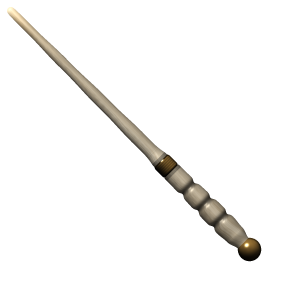
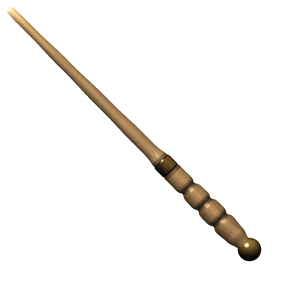
Keep the wall still around flickering flames, and make the wand light wood
- Each flickering flame now moves only a patch just wider than the flame,
  so the wall behind it no longer sways (most visible by the hero's owl)
- The wand cursor is light honey-toned wood instead of near-white

Changed region(s): [[0.03, 0.03, 0.57, 0.57], [0.54, 0.54, 0.84, 0.84]]

diff --git a/scripts/wand/render.js b/scripts/wand/render.js
@@ -79,12 +79,12 @@ window.renderWand = function ({ size = 100, scale = 3, tipX = 2.7, tipY = 2.7, a
       let alb, specS, shin, specCol
       const around = Math.atan2(sn, c) * r
       if (best.mat === 'wood') {
-        // Pale oiled ash, near bone white, so the wand stands out on the site's dark pages: creamy
-        // wood with fine, slightly darker grain lines running its length
+        // Light honey-toned wood, like oiled maple or blonde oak, so the wand stands out on the site's
+        // dark pages: warm golden wood with fine, darker grain lines running its length
         const tone = clamp(0.55 + 0.7 * fbm(u / 40, around / 3, 2, 11), 0, 1)
         const lines = fbm(u / 22, around / 0.28 + 3 * fbm(u / 30, around, 2, 7), 3, 13)
         const t = clamp(tone + lines * 0.8, 0, 1)
-        alb = [mix(186, 238, t), mix(164, 228, t), mix(128, 206, t)]
+        alb = [mix(172, 236, t), mix(122, 192, t), mix(70, 132, t)]
         // Slightly darker grooves (ambient occlusion)
         let occ = 0
         for (const gu of grooves) occ = Math.max(occ, Math.exp(-(((u - gu) / 1.3) ** 2)))
@@ -94,7 +94,7 @@ window.renderWand = function ({ size = 100, scale = 3, tipX = 2.7, tipY = 2.7, a
         // Tiny bump from the grain so highlights break up like a real oiled finish
         const bump = 0.18 * noise(u / 1.6, around / 0.5, 23)
         N = norm([N[0] + bump * e1[0], N[1] + bump * e1[1], N[2]])
-        specS = 0.55; shin = 45; specCol = [255, 246, 228]
+        specS = 0.6; shin = 50; specCol = [255, 240, 214]
       } else {
         // Brass: warm, reflective, faintly worn, with fine turned rings
         const wear = fbm(u / 2, around / 1.2, 3, 41)
@@ -118,7 +118,7 @@ window.renderWand = function ({ size = 100, scale = 3, tipX = 2.7, tipY = 2.7, a
         col = [0, 1, 2].map((k) => alb[k] * (0.06 + 0.5 * diff + fill) * (0.25 + 1.05 * env) * (1 - horizon) + specCol[k] * spec)
       } else {
         const sheen = Math.pow(Math.max(0, dot(N, Hk)), 8) * 0.12 // broad soft sheen under the sharp highlight
-        // Pale wood would blow out under full light, so it takes a little less, keeping its shaded side dark
+        // Light wood would blow out under full light, so it takes a little less, keeping its shaded side dark
         col = [0, 1, 2].map((k) => alb[k] * (0.22 + 0.7 * diff + fill) + specCol[k] * (spec * 0.6 + sheen))
       }
       const glowCol = [255, 196, 110]

diff --git a/components/LitImage.module.css b/components/LitImage.module.css
@@ -34,8 +34,8 @@
 .flame {
   position: absolute;
   background-repeat: no-repeat;
-  -webkit-mask-image: radial-gradient(ellipse 50% 50% at 50% 56%, #000 42%, transparent 100%);
-  mask-image: radial-gradient(ellipse 50% 50% at 50% 56%, #000 42%, transparent 100%);
+  -webkit-mask-image: radial-gradient(ellipse 50% 50% at 50% 56%, #000 62%, transparent 100%);
+  mask-image: radial-gradient(ellipse 50% 50% at 50% 56%, #000 62%, transparent 100%);
   animation: dance 1.2s ease-in-out infinite;
 }
 
@@ -55,19 +55,19 @@
     transform: scale(1, 1) skewX(0deg);
   }
   18% {
-    transform: scale(0.97, 1.07) skewX(-3deg);
+    transform: scale(0.98, 1.06) skewX(-2.5deg);
   }
   36% {
-    transform: scale(1.03, 0.97) skewX(2deg);
+    transform: scale(1.02, 0.98) skewX(1.5deg);
   }
   55% {
-    transform: scale(0.98, 1.1) skewX(-1.5deg);
+    transform: scale(0.99, 1.08) skewX(-1.2deg);
   }
   74% {
-    transform: scale(1.02, 0.99) skewX(3deg);
+    transform: scale(1.01, 0.99) skewX(2.5deg);
   }
   88% {
-    transform: scale(0.99, 1.05) skewX(-1deg);
+    transform: scale(0.99, 1.04) skewX(-0.8deg);
   }
 }
 

diff --git a/components/LitImage.tsx b/components/LitImage.tsx
@@ -43,11 +43,12 @@ function Flicker({ src }: { src: string }) {
           animationDuration: `${(1.7 + rnd(i, 1) * 1.6).toFixed(2)}s`,
           animationDelay: `-${(rnd(i, 2) * 3).toFixed(2)}s`,
         }
-        // The flame itself, lifted from the photo and set swaying from its base. Tiny flames only glow.
+        // The flame itself, lifted from the photo and set swaying from its base. The patch is kept just
+        // wider than the flame, so the wall behind stays still. Tiny flames only glow.
         let flame: CSSProperties | null = null
         if (size >= 12) {
-          const bw = size * 0.9, bh = size * 1.45
-          const left = cx - bw / 2, top = cy + size * 0.6 - bh
+          const bw = size * 0.44, bh = size * 1.5
+          const left = cx - bw / 2, top = cy + size * 0.62 - bh
           flame = {
             left: pct((left / W) * 100),
             top: pct((top / H) * 100),
